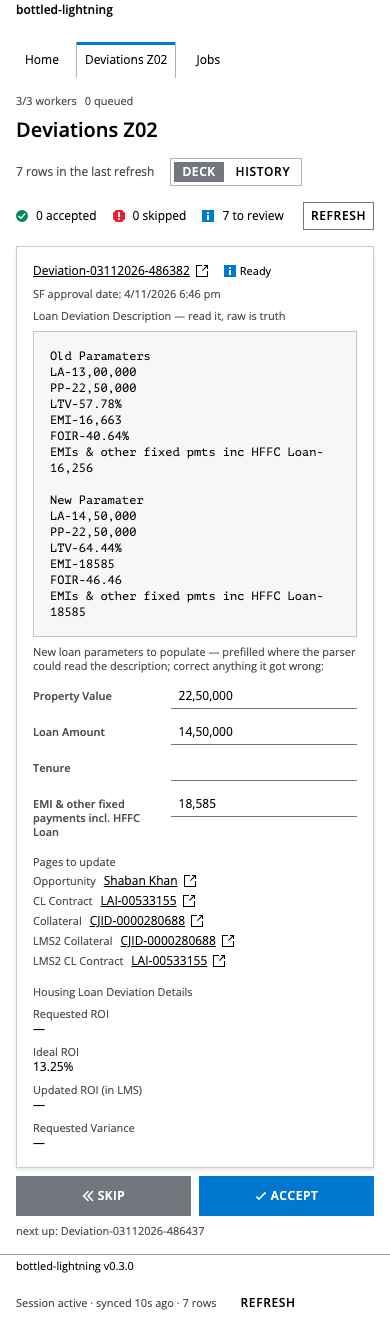
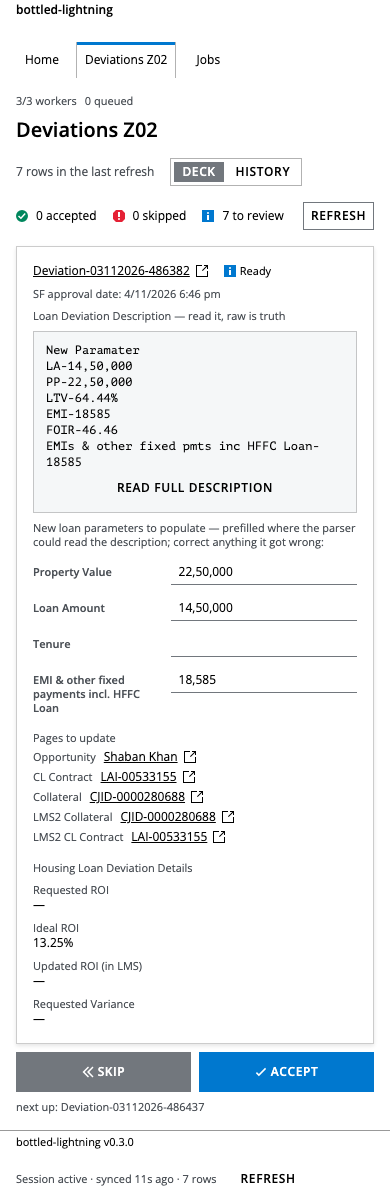
Add compact preview + full-description dialog for mobile and huge text
Columns make normal desktop descriptions fit, but two cases cannot: phones (a
37-line description would dominate the card) and arbitrarily large text. Add a
size fallback rather than another inline toggle:

- compact preview: the New block when present, otherwise the first 240 chars
  (220 on phones), inside the same bordered Salt card
- Read full description opens a Salt Dialog with the complete raw text and an
  internally scrollable body
- triggers: viewport below 768px, or description >1200 chars / >40 lines
- normal desktop descriptions (all seven current cards) remain fully visible in
  columns; 1280x800 stays at 800/800 with no page scroll
- useIsNarrow hook guards missing matchMedia for jsdom

Docs: FR v5.12 / frontend design v3.9. Frontend checks pass; unrelated backend
changes in app/ were left untouched and uncommitted.

diff --git a/frontend/src/components/DecisionCard.tsx b/frontend/src/components/DecisionCard.tsx
@@ -6,9 +6,15 @@
  */
 
 import type { JSX } from 'react'
+import { useState } from 'react'
 import {
+  Button,
   Card,
   CardContent,
+  Dialog,
+  DialogCloseButton,
+  DialogContent,
+  DialogHeader,
   FlexLayout,
   FormField,
   FormFieldLabel,
@@ -21,6 +27,7 @@ import {
 
 import type { ItemDetail, ItemRow, WorkflowFieldView } from '../api'
 import { absoluteUrl, draftDisplay, orderedFields } from '../format'
+import { useIsNarrow } from '../useIsNarrow'
 import { StatusChip } from './StatusChip'
 
 const REF_LABELS: Record<string, string> = {
@@ -76,6 +83,22 @@ export function DecisionCard({
   const descriptionInColumns = description !== null && description.length > 500
   const descriptionLines = description === null ? 0 : description.split('\n').length
   const descriptionInFourColumns = descriptionInColumns && descriptionLines > 30
+  const narrow = useIsNarrow()
+  const [openDescription, setOpenDescription] = useState(false)
+  // Above these limits the card cannot fit the viewport; show the compact form
+  // (New block or a preview) and open the full raw text in a Salt dialog.
+  const oversized = description !== null && (description.length > 1200 || descriptionLines > 40)
+  const compactDescription = oversized || narrow
+  const previewBody =
+    description === null
+      ? ''
+      : descriptionParts !== null
+        ? descriptionParts.new
+        : description
+  const previewText = previewBody.slice(0, narrow ? 220 : 240)
+  const previewCut = previewBody.length > previewText.length
+  const needsDialog =
+    compactDescription && description !== null && (descriptionParts !== null || previewCut)
   const recordHref = row.recordUrl ? absoluteUrl(row.recordUrl, listUrl) : null
   const refRank = (kind: string): number => {
     const index = REF_ORDER.indexOf(kind)
@@ -86,6 +109,7 @@ export function DecisionCard({
   )
 
   return (
+    <>
     <Card elevation="raised" className="deck-card">
       <CardContent>
         <StackLayout gap={1}>
@@ -118,6 +142,18 @@ export function DecisionCard({
               <Text color="secondary">loading description…</Text>
             ) : description === null ? (
               <Text color="secondary">no description picked yet — run an extraction first</Text>
+            ) : compactDescription ? (
+              <StackLayout gap={0.5}>
+                <Text styleAs="code" className="deck-description-text">
+                  {previewText}
+                  {previewCut ? '…' : ''}
+                </Text>
+                {needsDialog ? (
+                  <Button appearance="transparent" onClick={() => setOpenDescription(true)}>
+                    Read full description
+                  </Button>
+                ) : null}
+              </StackLayout>
             ) : descriptionInColumns ? (
               <Text
                 styleAs="code"
@@ -213,5 +249,21 @@ export function DecisionCard({
         </StackLayout>
       </CardContent>
     </Card>
+    {needsDialog ? (
+      <Dialog open={openDescription} onOpenChange={setOpenDescription} size="large">
+        <DialogHeader
+          header="Loan Deviation Description"
+          actions={<DialogCloseButton onClick={() => setOpenDescription(false)} />}
+        />
+        <DialogContent>
+          <div className="deck-description-dialog">
+            <Text styleAs="code" className="deck-description-text">
+              {description}
+            </Text>
+          </div>
+        </DialogContent>
+      </Dialog>
+    ) : null}
+    </>
   )
 }

diff --git a/frontend/src/useIsNarrow.ts b/frontend/src/useIsNarrow.ts
@@ -1,0 +1,21 @@
+/** True below the `md` breakpoint (768 px); used to pick the compact deck layout. */
+
+import { useEffect, useState } from 'react'
+
+const QUERY = '(max-width: 767px)'
+
+export function useIsNarrow(): boolean {
+  const supported = typeof window !== 'undefined' && typeof window.matchMedia === 'function'
+  const [narrow, setNarrow] = useState(() => (supported ? window.matchMedia(QUERY).matches : false))
+
+  useEffect(() => {
+    if (!supported) return
+    const media = window.matchMedia(QUERY)
+    const update = (): void => setNarrow(media.matches)
+    update()
+    media.addEventListener('change', update)
+    return () => media.removeEventListener('change', update)
+  }, [supported])
+
+  return narrow
+}

diff --git a/frontend/src/index.css b/frontend/src/index.css
@@ -107,6 +107,11 @@
   padding: 10px 12px;
 }
 
+.deck-description-dialog {
+  max-height: 60vh;
+  overflow-y: auto;
+}
+
 /* Long prose descriptions use newspaper columns so the whole text is visible
    without scrolling; Old/New blocks already render side by side. */
 .deck-description-columns {

diff --git a/docs/FR-deviations.md b/docs/FR-deviations.md
@@ -3,7 +3,7 @@
 | | |
 |---|---|
 | **Status** | Draft for review |
-| **Version** | v5.11 |
+| **Version** | v5.12 |
 | **Date** | 2026-11-04 |
 | **Scope** | Loan deviations workflow only |
 | **Supersedes** | The pre-refactor behaviour in `app/deviations*`, `app/sync.py`, `app/jobs.py` |
@@ -232,6 +232,11 @@ Automate the extraction, review and update of loan deviations from Salesforce, a
   `source=system` and carries an `implement_unconfirmed` flag for operator review.
 - **FR-6.13** A deviation that reappears after being closed starts a new presence epoch
   and returns to `present`, with its prior history intact.
+- **FR-6.14** During Phase 6 bring-up the submission pipeline may run with the final
+  action disabled. In that mode it performs apply and validate only, returns
+  `validated`, and returns the item to `ready` with the reason `validated; final action
+  disabled`. No Implement click, modal or confirmation is performed. The mode exists
+  only until O-2 is resolved and is not a substitute for FR-6.5.
 
 ### FR-7 Jobs & workers
 
@@ -347,12 +352,14 @@ Automate the extraction, review and update of loan deviations from Salesforce, a
   so missing or unparsed values are visible and correctable before a decision. Missing
   values are not an error and carry no warning: only one or two values may need an
   update. Accept persists the card's values as proposals (FR-10.2).
-- **FR-10.11** The entire raw description is visible together in a bordered Salt card,
-  with no toggle and no internal scroll. Short Old/New block pairs render side by side;
-  long descriptions flow into 3–5 balanced newspaper columns (2 below 1024 px, 1 on
-  phones), so even the longest prose fits without scrolling. At 1280×800 the deck
-  (header, card and actions) fits without page scrolling for every deviation; below
-  that width the card stacks and the page scrolls vertically.
+- **FR-10.11** The raw description is shown in a bordered Salt card with no internal
+  scroll. Short Old/New pairs render side by side; long descriptions flow into 3–5
+  balanced newspaper columns (2 below 1024 px). At 1280×800 the deck (header, card and
+  actions) fits without page scrolling for every deviation. **Mobile, and descriptions
+  too large to fit (over 1200 characters or 40 lines), use a compact preview** (the New
+  block or the first 240 characters) plus a **Read full description** Salt dialog with
+  the complete raw text. This is a size fallback, not a normal-case toggle: desktop
+  descriptions within the limit are always shown in full.
 - **FR-10.11** Decisions never gate sync or extraction. An accepted or rejected item is
   still reconciled with the list view like any other.
 
@@ -403,7 +410,7 @@ absence while a `SUBMIT` lease was held.
 
 | ID | Question | Blocks |
 |---|---|---|
-| O-1 | Which SF object and field label each of `loan_amount`, `property_value`, `tenure`, `emi_incl_hffc` is written to, and whether any value fans out to several objects. | FR-6.3, data model |
+| O-1 | ~~Which SF object and field label each of `loan_amount`, `property_value`, `tenure`, `emi_incl_hffc` is written to, and whether any value fans out to several objects.~~ **Resolved** — see the confirmed mapping below. | — |
 | O-2 | Exact label of the modal confirm button for `Implement`. | FR-6.5 |
 | O-3 | Whether `z01`/`z03`/`z04` and `app/cancellations/` are live or dead scaffolding (proposed: delete). | Architecture |
 | O-4 | ~~Wipe the legacy `data/app.db` for the new schema.~~ **Resolved** — wiped; `data/` now holds the workflow store. | — |
@@ -412,7 +419,40 @@ absence while a `SUBMIT` lease was held.
 | O-7 | Should accepted items auto-submit once Phase 6 lands, or wait for an explicit
   submit action? (Default: explicit action; acceptance only queues.) | FR-10.6 |
 
+### Confirmed write mapping (O-1)
+
+Each value is written to every target below; a submit fails rather than writing a
+partial set (FR-6.3). Section names are the page areas the adapter scrolls to and are
+used to disambiguate repeated labels.
+
+| Value | Object | Section | Label |
+|---|---|---|---|
+| `property_value` | Opportunity | `LOAN PARAMETERS` | `Property Value Ex. Reg & ST(Financeable)` |
+| `property_value` | Collateral | `Details` | `Property Value` |
+| `property_value` | LMS 2.0 collateral | `Financials` | `Property Value` |
+| `loan_amount` | Opportunity | `LOAN PARAMETERS` | `Loan Amount` |
+| `loan_amount` | CL contract | `Contract` | `Loan Amount` |
+| `loan_amount` | CL contract | `Funding` | `Financed Amount` |
+| `loan_amount` | LMS 2.0 CL contract | `Loan amount` | `New value` |
+| `tenure` | Opportunity | `LOAN PARAMETERS` | `Tenure (Yrs)` (months → years) |
+| `tenure` | CL contract | `Contract` | `Term` (months) |
+| `tenure` | LMS 2.0 CL contract | `Tenure` | `New value` (months) |
+| `emi_incl_hffc` | Opportunity | `BUDGET ANALYSIS & SAVINGS PATTERN` | `EMIs & other fixed pmts inc HFFC Loan` |
+
+The CL-contract record is a Classic Visualforce page (`tabbedLoanAccount`) inside the
+Lightning record's iframe. Submission opens it through the org's Classic host
+(`https://<org>.my.salesforce.com/<record-id>`) and uses Classic inline edit
+(double-click, fill, Save).
+
 ## Appendix C — Change log
+
+- **v5.12** — mobile and oversized descriptions use a compact preview + Salt dialog for
+  the full text; normal desktop descriptions remain fully visible in columns. The deck
+  stays bounded on every viewport.
+
+- **v5.12** — O-1 resolved: the confirmed write mapping is recorded above, including
+  the two CL-contract targets for `loan_amount` and the Opportunity/LMS 2.0 tenure
+  conversion. FR-6.14 adds the validate-only bring-up mode (no Implement click).
 
 - **v5.11** — long descriptions flow into balanced columns (up to 5 on wide screens)
   instead of a toggle or scroll; every current card fits 1280×800 with no page scroll.

diff --git a/docs/frontend-design-deviations.md b/docs/frontend-design-deviations.md
@@ -105,7 +105,7 @@ accepted/skipped/to-review tallies, then Skip and Accept. The header keeps the
 | ready | record link + status, approval date, *Pages to update* (Opportunity, CL, collateral, LMS2), raw description panel, ROI grid, four prefilled editable values | Skip, Accept |
 | needs_review | same card + the failure reason above the description | Skip, Accept |
 | partial values | inputs not present in the New block are empty; no warning | Accept allowed (FR-10.10) |
-| description | entire raw text in a bordered Salt card; Old/New side by side, long prose in 3–5 balanced columns (stacked narrow), no toggle or internal scroll | decide |
+| description | bordered Salt card: full text in Old/New columns on desktop; compact preview + **Read full description** dialog on mobile or above 1200 chars / 40 lines | decide |
 | editing a value | input shows Indian grouping (amounts) or months; the draft is local until Accept | Skip discards the draft |
 | decision in flight | Skip/Accept disabled until the PATCH + decision finish | — |
 | decision failed | card stays, the server message appears above it | Retry |
@@ -295,9 +295,10 @@ Rules:
   CSS is limited to layout, responsive column hiding and motion.
 - **High density.** Page padding 10/16 px, headings 20/17/14 px, data text 11–12 px,
   layout gaps 8–16 px (not 24–32), table cells 4–5 px, card padding 10–12 px, the deck
-  description block in a bordered Salt Card, full width: short Old/New pairs side by side;
-  descriptions over 500 characters flow into 3–5 balanced columns (2 below 1024 px, 1 on
-  phones). Always visible together, never internally scrollable.
+  description block in a bordered Salt Card, full width: Old/New pairs side by side;
+  descriptions over 500 characters flow into 3–5 balanced columns on desktop. Mobile, or
+  text over 1200 characters / 40 lines, shows a compact preview (New block or first 240
+  characters) with a **Read full description** Salt dialog. Never internally scrollable.
 - **No horizontal page scrolling at 390/768/1280 px.** The shell is border-box; filters
   wrap; the list drops to Status + Deviation at 600 px instead of scrolling sideways.
   Long values wrap (`overflow-wrap: anywhere`), never widen the page.
